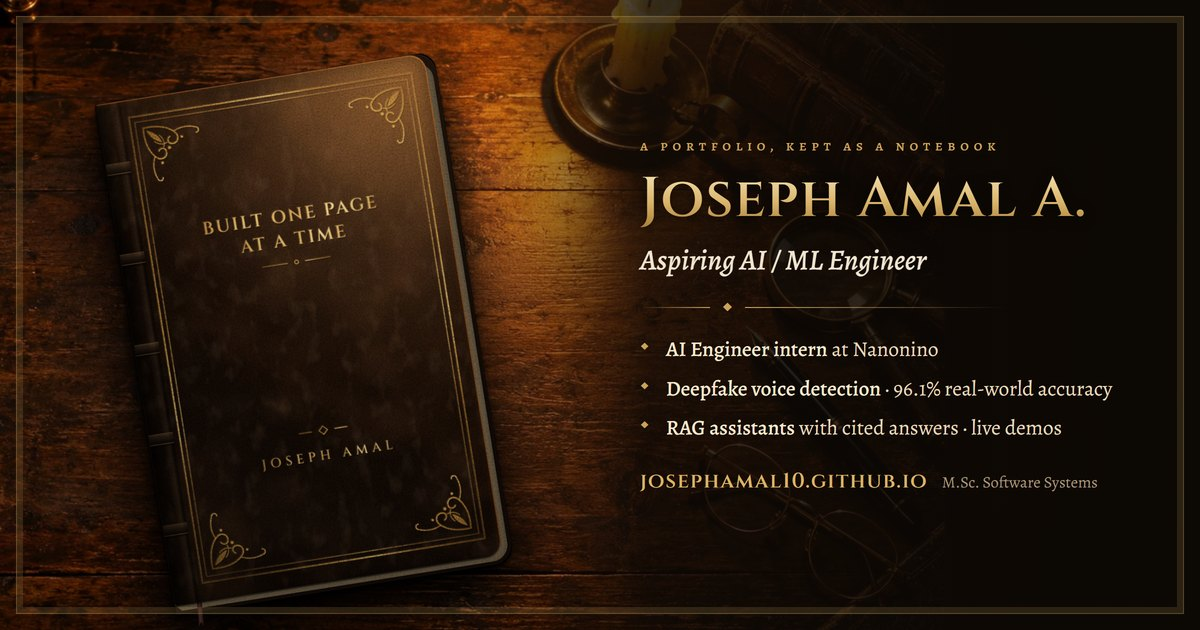
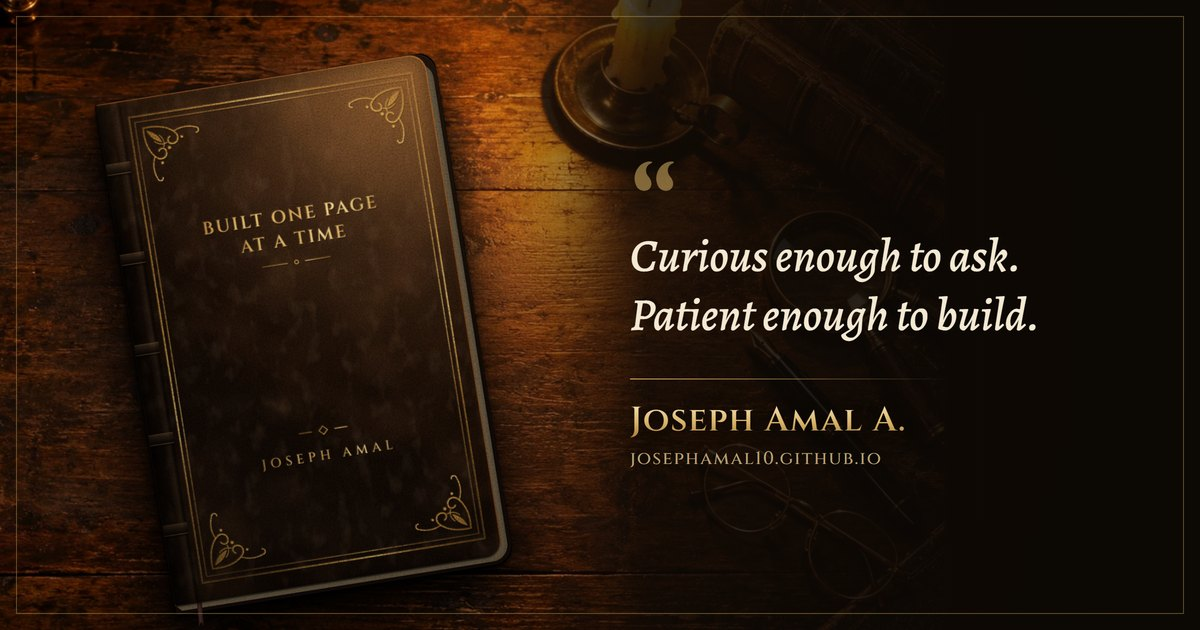
Use a personal line on the link preview

diff --git a/index.html b/index.html
@@ -13,19 +13,19 @@
   <meta property="og:type" content="website">
   <meta property="og:site_name" content="Joseph Amal’s Notebook">
   <meta property="og:url" content="https://josephamal10.github.io/">
-  <meta property="og:title" content="Joseph Amal A. · Aspiring AI / ML Engineer">
-  <meta property="og:description" content="AI Engineer intern at Nanonino. Deepfake voice detection (96.1% on real-world audio), RAG assistants with cited answers, and speech AI, all with live demos. A portfolio kept as a notebook.">
+  <meta property="og:title" content="Joseph Amal’s Notebook">
+  <meta property="og:description" content="Curious enough to ask. Patient enough to build. The portfolio of Joseph Amal A., kept as a notebook.">
   <meta property="og:image" content="https://josephamal10.github.io/assets/img/og/preview.jpg">
   <meta property="og:image:type" content="image/jpeg">
   <meta property="og:image:width" content="1200">
   <meta property="og:image:height" content="630">
-  <meta property="og:image:alt" content="A leather notebook on a candlelit desk, beside the words: Joseph Amal A., Aspiring AI / ML Engineer">
+  <meta property="og:image:alt" content="A leather notebook on a candlelit desk, beside the line: Curious enough to ask. Patient enough to build. Joseph Amal A.">
   <meta property="og:locale" content="en_IN">
   <meta name="twitter:card" content="summary_large_image">
-  <meta name="twitter:title" content="Joseph Amal A. · Aspiring AI / ML Engineer">
-  <meta name="twitter:description" content="AI Engineer intern at Nanonino. Deepfake voice detection, RAG assistants and speech AI, with live demos.">
+  <meta name="twitter:title" content="Joseph Amal’s Notebook">
+  <meta name="twitter:description" content="Curious enough to ask. Patient enough to build. The portfolio of Joseph Amal A., kept as a notebook.">
   <meta name="twitter:image" content="https://josephamal10.github.io/assets/img/og/preview.jpg">
-  <meta name="twitter:image:alt" content="A leather notebook on a candlelit desk, beside the words: Joseph Amal A., Aspiring AI / ML Engineer">
+  <meta name="twitter:image:alt" content="A leather notebook on a candlelit desk, beside the line: Curious enough to ask. Patient enough to build. Joseph Amal A.">
 
   <!-- For search engines: who this site is about -->
   <script type="application/ld+json">
